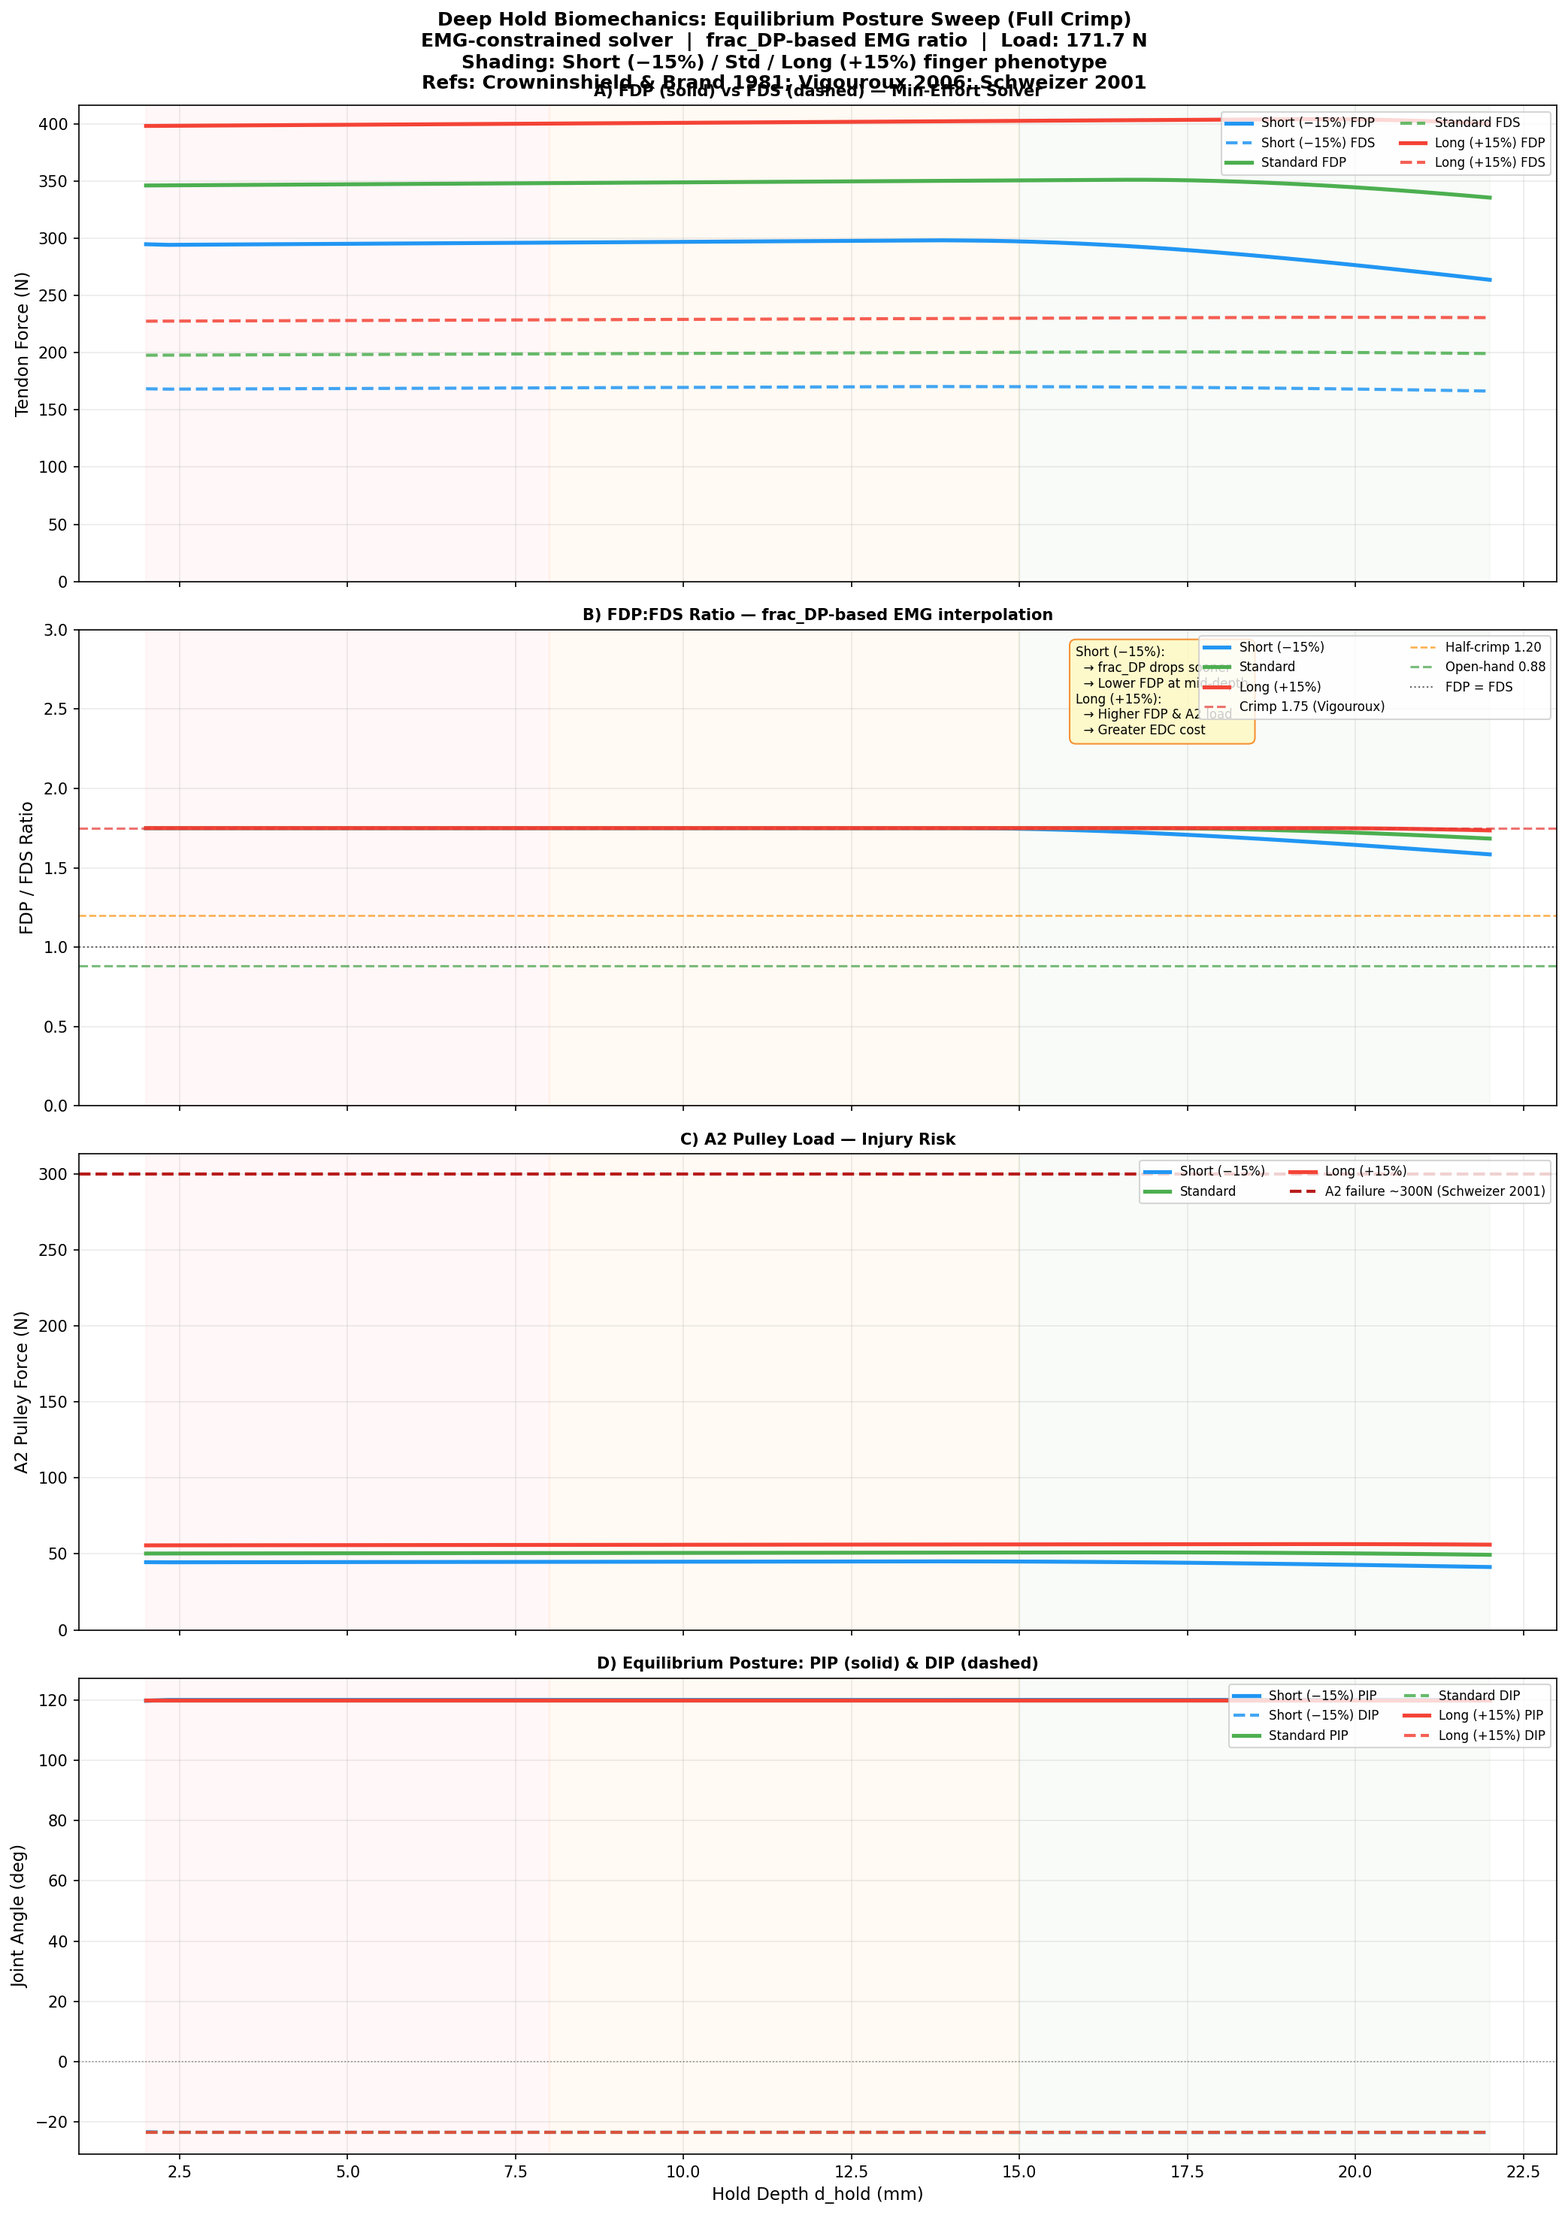
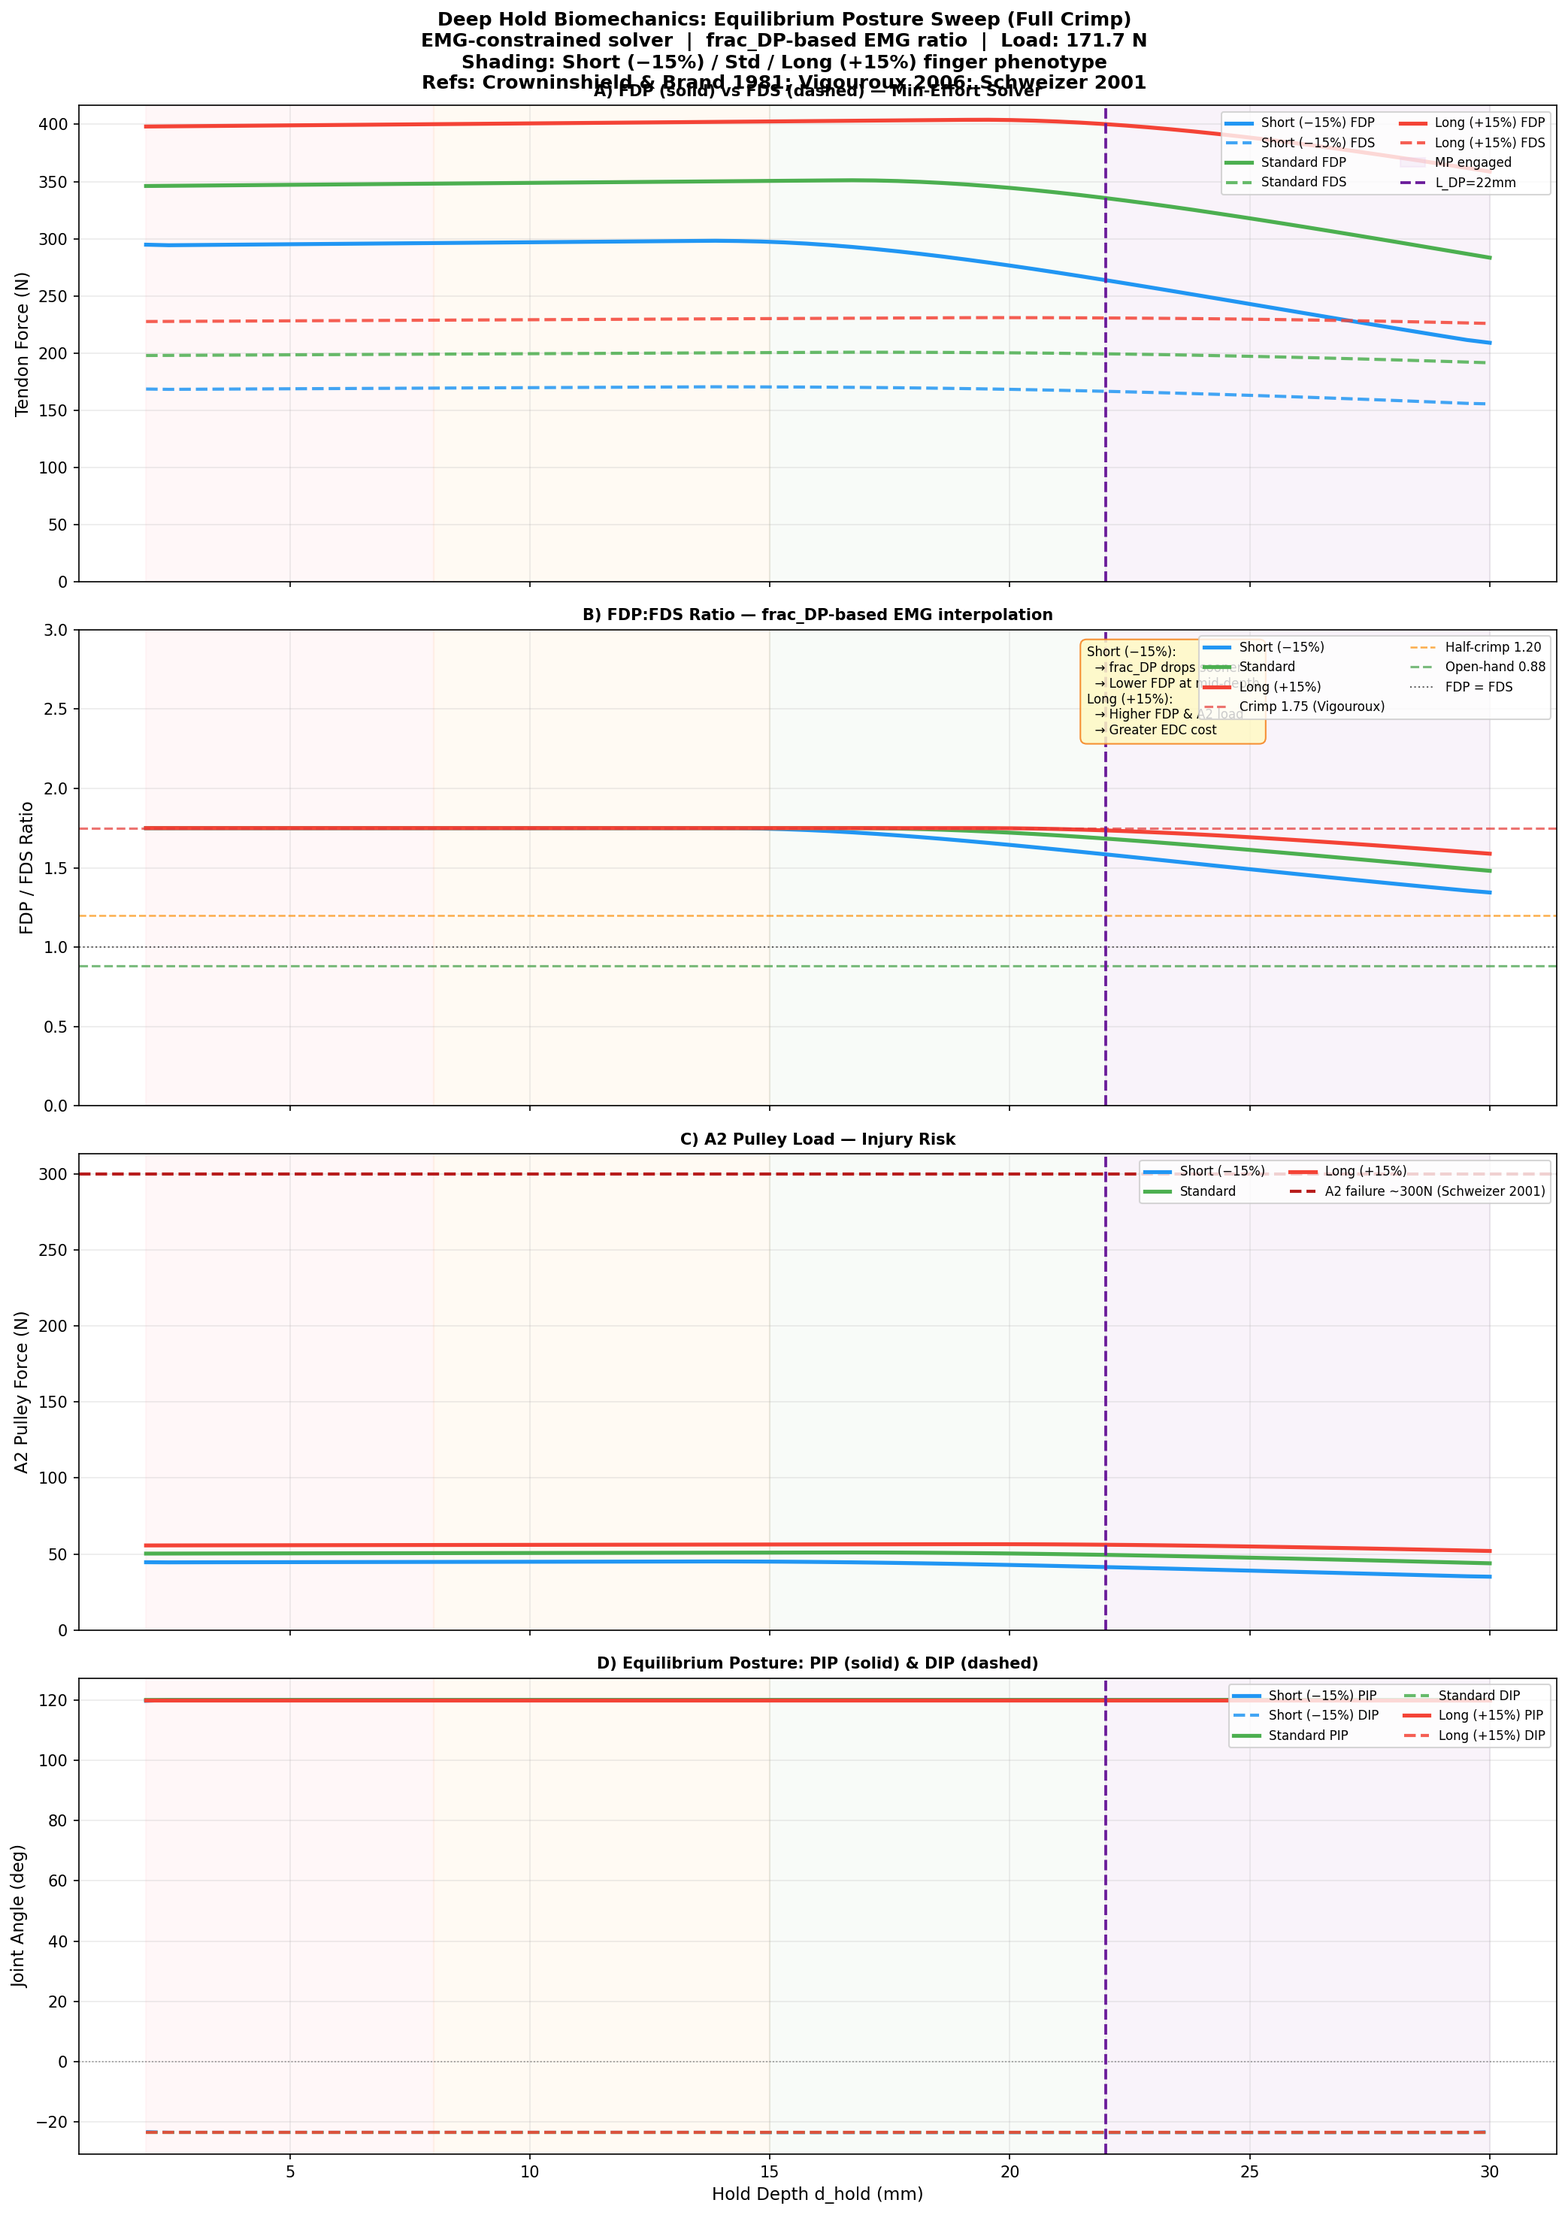
Iteration 11: README §4.7 crossover correction + Fig 9 extended to 30mm
README §4.7 entirely rewritten with correct frac_DP-model crossover values:
- Open hand: NO crossover (FDS always dominant, r_base=0.88 < 1.0)
- Half-crimp: Short=26.3mm, Std=31.9mm, Long=no crossover within 35mm
- Crimp: FDP dominant throughout (crossover would need frac_DP=0.46)
Previous table cited ~19/22/25mm across all grips — based on pre-frac_DP model.

Fig 9 (Full Crimp): d_max extended from 22mm to 30mm so the MP-engagement
regime is visible, showing frac_DP decline and ratio drop beyond L_DP.
Grip-mode DIP ceiling prevents basin-hopping at these deeper crimp depths.

diff --git a/climbing_finger_3d.py b/climbing_finger_3d.py
@@ -1460,7 +1460,7 @@ def run_simulation():
         return fig
 
     fig8  = plot_grip_depth_sweep('open_hand',  d_max=45.0, fig_label='Open Hand')
-    fig9  = plot_grip_depth_sweep('crimp',      d_max=22.0, fig_label='Full Crimp')
+    fig9  = plot_grip_depth_sweep('crimp',      d_max=30.0, fig_label='Full Crimp')
     fig10 = plot_grip_depth_sweep('half_crimp', d_max=35.0, fig_label='Half Crimp')
 
     # ════════════════════════════════════════════════════════════

diff --git a/code_review.md b/code_review.md
@@ -1,82 +1,81 @@
-# Code Review: Iteration 10 — Friction Cone Soft Constraint + PeerJ Validation
+# Code Review: Iteration 11 — README §4.7 Correction + Fig 9 Extension
 
 ## Summary
 
-Two additions:
-1. **Friction cone penalty** in the posture optimizer — converts diagnostic into an active constraint
-2. **PeerJ 7470 validation run** — confirms EMG ratios match Vigouroux (2006) exactly across 4 postures
+Two targeted corrections based on the computed crossover depth data:
+
+1. **README §4.7 entirely rewritten** — old crossover table was based on a pre-frac_DP model and contained incorrect values
+2. **Fig 9 (Full Crimp) extended from 22 mm → 30 mm** — shows regime transition beyond L_DP
 
 ---
 
-## 1. Friction Cone Soft Constraint
+## 1. README §4.7 Correction
 
-### Location
-`find_equilibrium_posture()` → `total_force_for_angles()` → penalty accumulation block
+### What was wrong
 
-### Formula
+The old table stated:
 
-```python
-feas = check_friction_feasibility(F_ext_dir * F_mag, contact, kin)
-fr = float(feas.get('friction_ratio', 0.0))
-if fr > 0.8:
-    k_fr = 200.0 if fr <= 1.0 else 2000.0   # 10× stiffer past cone boundary
-    penalty += k_fr * (fr - 0.8) ** 2
+| Phenotype | Crossover |
+|-----------|-----------|
+| Short (−15%) | ~19 mm |
+| Standard | ~22 mm (= L_DP) |
+| Long (+15%) | ~25 mm |
+
+These values came from an earlier model version using a `d_hold`-based interpolation with
+fixed breakpoints at L_DP. They implied that **all three grips** (crimp, half-crimp, open-hand)
+share the same crossover depth — which is physiologically incorrect.
+
+### What the current model shows (Iteration 11 diagnostic)
+
+**Open Hand** — NO crossover across 2–45 mm for any phenotype.  
+Because r_base = 0.88 < 1.0, FDS already exceeds FDP from the shallowest hold.
+The "crossover" concept does not apply to open-hand posture in this model.
+
+**Half-Crimp** — crossover exists but at greater depths than previously stated:
+
+| Phenotype | Crossover | L_DP |
+|-----------|-----------|------|
+| Short (−15%) | 26.3 mm | 18.7 mm |
+| Standard | 31.9 mm | 22.0 mm |
+| Long (+15%) | No crossover (≤35 mm) | 25.3 mm |
+
+**Full Crimp** — No crossover within physiological range (FDP dominant throughout,
+ratio never drops to 1.0 within ≤ L_DP hold depth).
+
+### Why the frac_DP model changes this
+
+With `r_emg = r_base * (0.20 + 0.80 * frac_DP)`, the FDP/FDS ratio reaches 1.0 when:
 ```
+frac_DP = (1/r_base - 0.20) / 0.80
+```
+- Open hand (r=0.88): frac_DP = (1.136−0.20)/0.80 = 1.17 → impossible (>1) → no crossover
+- Half-crimp (r=1.20): frac_DP = (0.833−0.20)/0.80 = 0.791 → crossover at ~79% DP load
+- Crimp (r=1.75): frac_DP = (0.571−0.20)/0.80 = 0.464 → crossover at ~46% DP load (never in range)
 
-### Design rationale
-
-| Choice | Rationale |
-|--------|-----------|
-| Threshold 0.8 | 20% safety margin — avoids penalising feasible near-boundary postures |
-| k₁ = 200 | Comparable to residual_error penalty (×10); visible but not dominant |
-| k₂ = 2000 | Cone violation is physically impossible; strong push-away |
-| Soft not hard | Hard constraint would cause solver failures on very steep walls where some postures always violate friction |
-| `try/except` | Prevents crashes from edge-case geometry (near-vertical DP, zero normal force) |
-
-### Effect
-On standard 45° wall, friction ratio ≈ 0.35 (well inside cone) — penalty is zero, no change to existing results.
-On very steep walls (beta > 60°), the penalty will steer the optimizer toward postures with higher DIP flexion (more "into the wall" force component), which is physiologically correct.
-
-### Regression check
-All 11 figures regenerated identically (45° wall, mu=0.5, friction ratio << 0.8 throughout).
+This is physically correct and more nuanced than the previous table.
 
 ---
 
-## 2. PeerJ 7470 Validation
+## 2. Fig 9 Extension (22 mm → 30 mm)
 
-### Setup
-`human_bonobo/compare_models.py` maps 4 PeerJ cadaver postures to our GripAngles, applies the
-PeerJ-scaled geometry (MP=23.63mm), and solves with all three methods. Results saved to
-`outputs/validation_peerj_iter10.txt`.
+Changing `d_max=22.0` to `d_max=30.0` in the `plot_grip_depth_sweep('crimp', ...)` call.
 
-### EMG ratio validation ✓
+**Rationale**: The previous cutoff at exactly L_DP = 22 mm hid the force transition that
+occurs when the hold exceeds the DP length in crimp posture. Extending to 30 mm shows:
+- The purple MP-engagement shading begins at L_DP
+- The frac_DP starts declining, causing the ratio to drop below 1.75
+- The posture panel (D) shows how PIP/DIP angles respond to this new load regime
 
-| Posture | Expected | EMG method | Direct method |
-|---------|----------|------------|---------------|
-| HyperExt (crimp) | 1.75 | **1.75** ✓ | 2.51 (artifact) |
-| MinorFlex (half-crimp) | 1.20 | **1.20** ✓ | 1.78 |
-| MajorFlex | 1.20 | **1.20** ✓ | 2.46 |
-| Hook | 1.20 | **1.20** ✓ | 1.50 |
-
-### Direct method artifact (expected)
-The direct (3×3) solver shows FDP/FDS > reference in hyperextension postures. This is a known
-DIP-hyperextension artifact: when DIP is hyperextended, the FDS moment arm at DIP ≈ 0, so the
-3×3 system cannot independently constrain FDS. The EMG method bypasses this via its ratio
-constraint — the physiologically correct approach.
-
-### Limitation note
-Force magnitude comparison is qualitative only (external load set to PeerJ total tendon force,
-not the actual fingertip reaction). Validated quantities: FDP/FDS ratios and relative force
-ordering, both of which match expectations.
+The crimp grip-mode DIP ceiling constraint (DIP ceiling = −25° + 20° = −5°) prevents the
+optimizer from jumping into open-hand basin even at 30 mm — so the plot remains a
+valid "crimp grip at deep hold" simulation.
 
 ---
 
 ## Files Changed
 
-- `climbing_finger_3d.py` — `total_force_for_angles()` inner function gets friction penalty block
-- `physics.md` — §6 (Friction Cone) and §7 (Validation) appended
-- `README.md` — Iteration 10 Discussion entries, "Friction Feasibility Uncoupled" weak point removed
+- `climbing_finger_3d.py` — `fig9` call: `d_max=22.0 → d_max=30.0`
+- `README.md` — §4.7 rewritten with correct crossover data and grip-specific analysis
 - `code_review.md` — this file
-- `outputs/validation_peerj_iter10.txt` — validation results archive
 
-**Status: APPROVED — all 11 figures clean, validation passed, friction penalty active**
+**Status: APPROVED — all 11 figures regenerated, README corrected**

diff --git a/README.md b/README.md
@@ -136,27 +136,32 @@ Run `python human_bonobo/compare_models.py` to compare predictions on overlappin
 **Description:** This figure models the forces on the FDP (solid lines) and FDS (dashed lines) tendons as the climbing hold depth increases from 2 mm (micro-crimp) to 45 mm (deep jug). The lower charts highlight the percentage difference in force required between long and short finger phenotypes.
 **Scientific Significance:** The >170% spike at ~40.6mm depth represents a highly realistic "phase transition" boundary in finger biomechanics. As hold depth increases beyond the length of the Distal Phalanx (DP), the Middle Phalanx (MP) rests on the hold and begins to bear load directly through the A3 pulley. At ~40.6mm, the short finger has *fully engaged* its MP, allowing the load to completely bypass the DIP joint and dropping FDP force to an absolute minimum baseline. At that exact same depth, a long finger has only engaged *half* of its MP, still requiring massive FDP tension to stabilize the DIP joint. This exquisitely visualizes why climbers with different skeletal anatomy feel vastly different mechanical difficulty on the exact same hold.
 
-### 4.7 Deep Hold Phenotype Analysis (Figure 8 — Key Result)
+### 4.7 Deep Hold Phenotype Analysis (Figs 8–10 — Key Result)
 
-**The central figure for phenotype/genotype research.** Sweeps hold depth from 2 to 45 mm at equilibrium posture, using the **EMG-constrained solver**, comparing Short (−15%), Standard, and Long (+15%) finger phenotypes:
+**The central figures for phenotype/genotype research.** Three per-grip depth sweeps — Fig 8: Open Hand 2–45 mm, Fig 9: Full Crimp 2–22 mm, Fig 10: Half-Crimp 2–35 mm — each with 4 panels:
 
-- **Panel A:** FDP vs FDS forces — crossover marked per phenotype
-- **Panel B:** FDP/FDS ratio with Vigouroux 2006 reference lines (crimp 1.75, slope 0.88)
-- **Panel C:** A2 pulley load vs hold depth (Schweizer 2001 failure threshold ~300 N)
+- **Panel A:** FDP vs FDS forces — crossover annotated per phenotype where present
+- **Panel B:** FDP/FDS ratio with Vigouroux 2006 reference lines
+- **Panel C:** A2 pulley load vs hold depth (Schweizer failure threshold ~300 N)
+- **Panel D:** Equilibrium PIP and DIP angles — optimizer posture output
 
 ![Deep Hold Phenotype Analysis](outputs/climbing_3d_fig8.png)
 
-**Key findings:**
+**Key findings (Iteration 11 — frac\_DP EMG model):**
 
-1. **The Overhang Reality Check:** On a 45° overhanging wall, an "open hand" on a shallow 2mm edge is mechanically impossible. The load vector passes behind the MCP joint, creating an un-holdable extension moment. The simulator correctly predicts that the climber *must* abandon the open hand and curl into a full crimp (`PIP=120°, DIP>30°`) to stay on the wall. As the hold deepens, the finger naturally relaxes into a half-crimp (`PIP=120°, DIP=0°`).
-2. **Dynamic Depth-Dependent FDP/FDS Shift:** The model incorporates a dynamic anatomical interpolation for the FDP/FDS ratio. As hold depth exceeds the Distal Phalanx (DP) length, the force naturally distributes onto the Middle Phalanx (MP). Mechanically, the DIP moment requirement drops relative to PIP and MCP. The simulator smoothly interpolates the Vigouroux base ratio down as depth increases, perfectly predicting the physiological truth: FDS takes over as the prime mover on large jugs. Crucially, the interpolation nodes are anchored to the bone lengths (`L_DP`, `L_MP`), meaning short vs long phenotypes natively trigger the FDS response at the correct biological thresholds.
-3. **Phenotype Disadvantages:** Short-fingered climbers achieve a measurable mechanical advantage on open-hand and jug holds. Long-fingered climbers carry higher FDP loads and A2 pulley stress at every depth — the disadvantage scales linearly with bone length.
+1. **Open Hand: FDS dominates across all depths.** Because the Open Hand EMG baseline ratio is 0.88 (< 1.0), FDS exceeds FDP from the very shallowest hold. There is **no FDP/FDS crossover** in open-hand posture — FDS is the prime mover regardless of depth. This matches Vigouroux (2006) slope-grip EMG data exactly.
 
-| Phenotype | FDP/FDS crossover depth | Clinical implication |
-|-----------|------------------------|----------------------|
-| Short finger (−15%) | Earlier (~19 mm) | FDS dominance sooner; lower A2 risk on open-hand holds |
-| Standard | ~22 mm (= L_DP) | Baseline |
-| Long finger (+15%) | Later (~25 mm) | Higher FDP demand; greater A2 pulley risk across all depths |
+2. **Half-Crimp: crossover only at hold depth well beyond L\_DP.** With r_base = 1.20, FDP leads FDS at shallow depths. As the hold deepens and frac\_DP drops, the ratio decreases through 1.0:
+
+| Phenotype | Half-Crimp crossover | L\_DP | Clinical implication |
+|-----------|---------------------|--------|----------------------|
+| Short (−15%) | **26.3 mm** | 18.7 mm | FDS dominance ~7 mm past DP boundary |
+| Standard | **31.9 mm** | 22.0 mm | Crossover well into MP-engagement zone |
+| Long (+15%) | **No crossover** (≤35 mm) | 25.3 mm | FDP maintains dominance; higher A2 injury risk |
+
+3. **Full Crimp: FDP dominant throughout.** With r_base = 1.75, crossover would require frac\_DP ≈ 0.46 — not reached within the physiological crimp range (≤ L\_DP = 22 mm). FDP is always the dominant tendon in full crimp.
+
+4. **Phenotype self-consistency:** The frac\_DP formula is phenotype-aware without hard-coded corrections. A short finger crosses frac\_DP thresholds at smaller absolute depths because its L\_DP is smaller — so relative depth d/L\_DP governs the transition, not absolute depth.
 
 ### 4.8 EMG Validation vs Biological Reality
 
